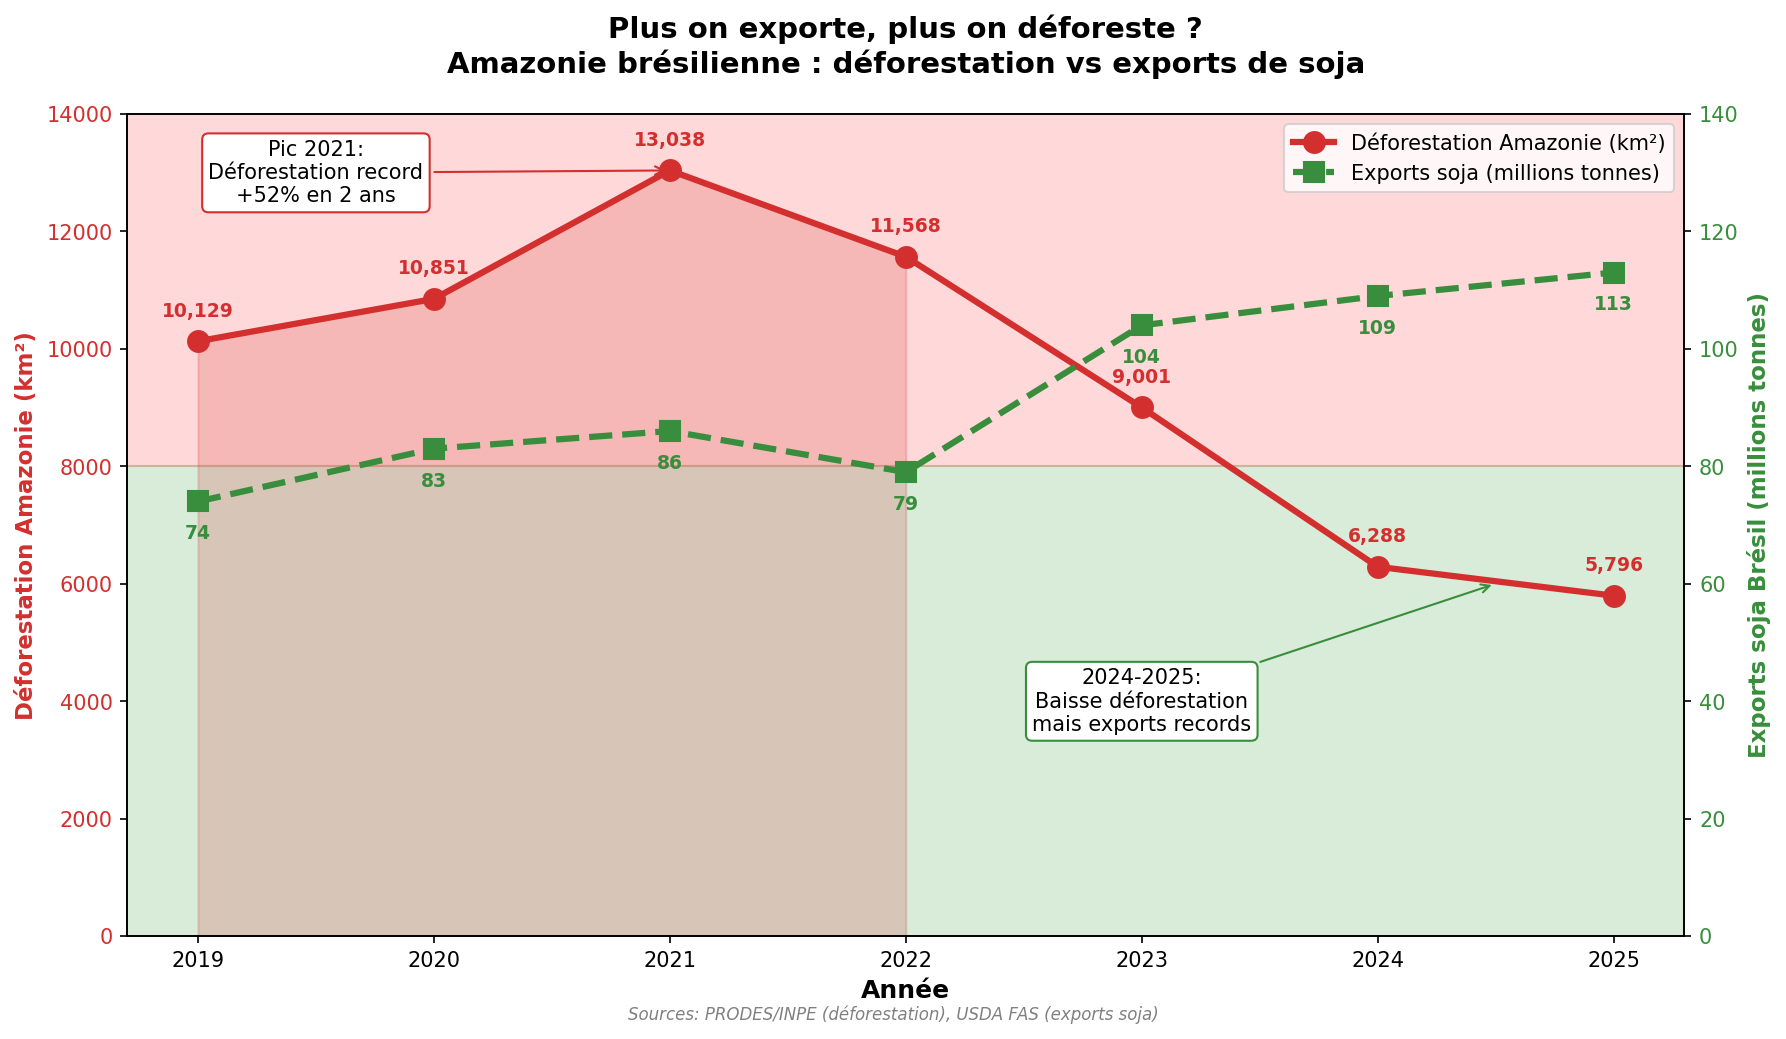
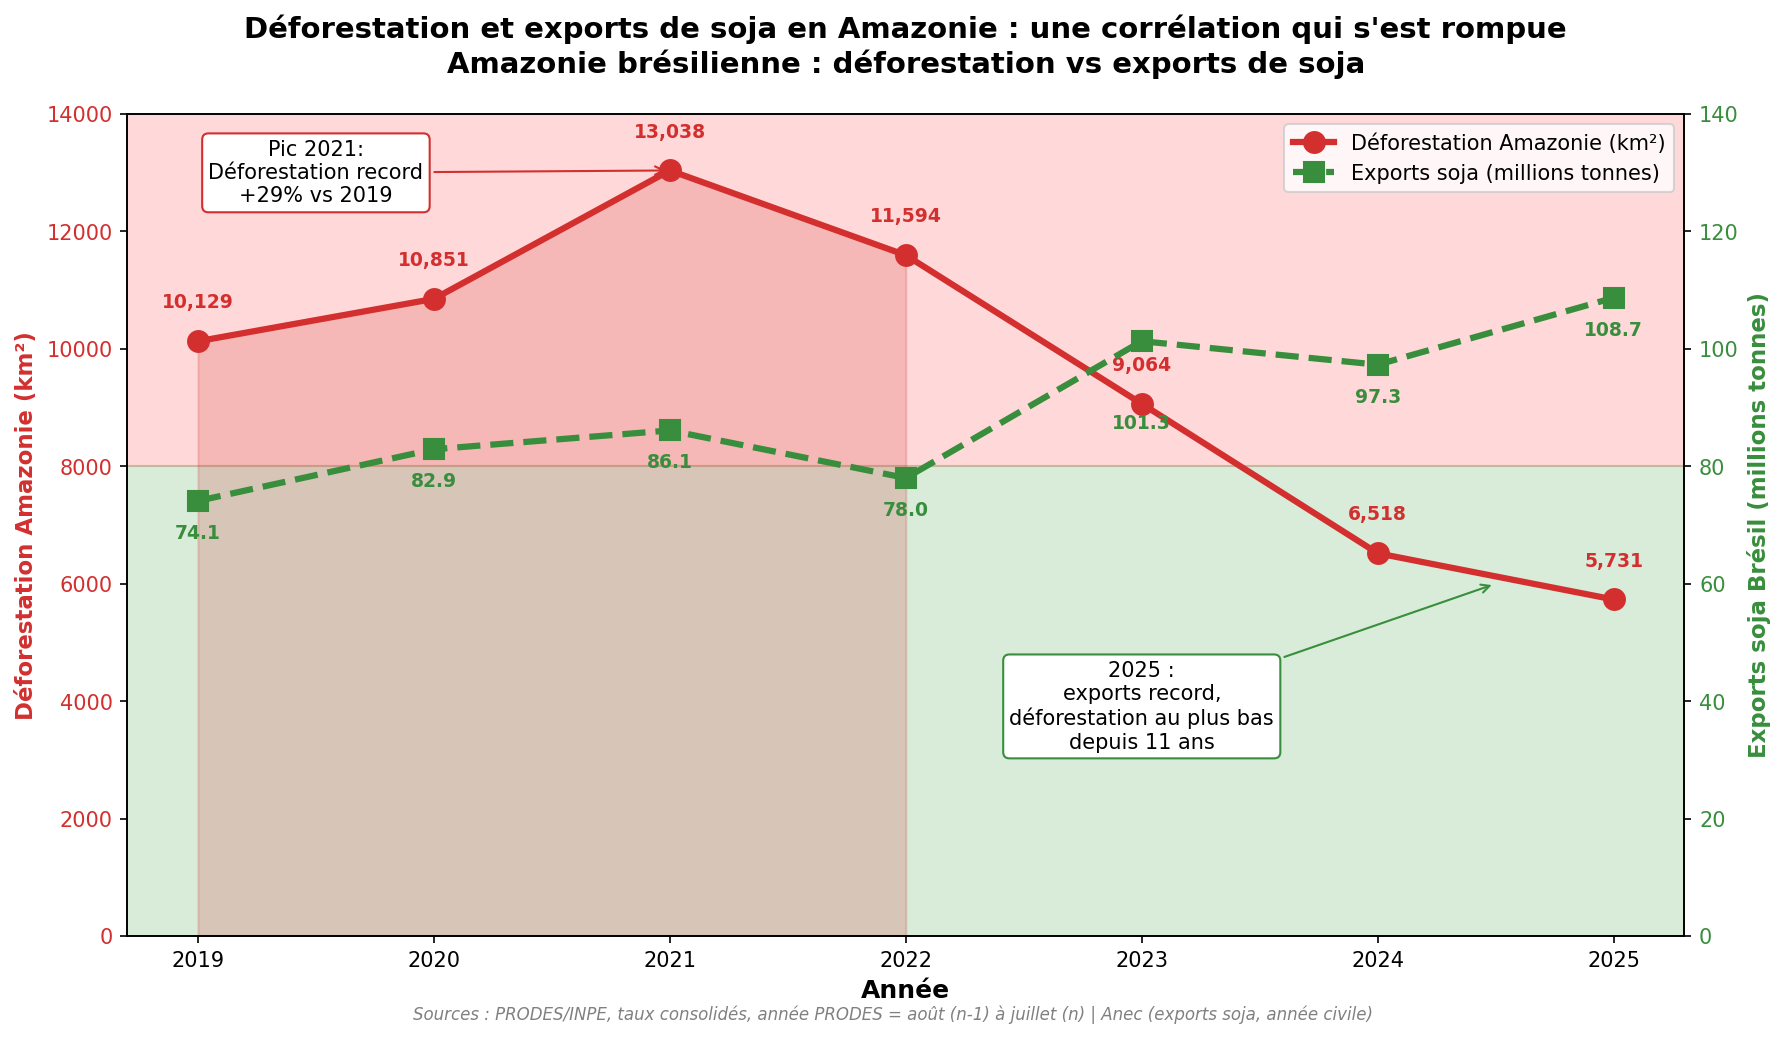
Corrige les donnees de la page Mercosur et ajoute la comparaison sucre
- Deforestation/exports soja : bascule sur les taux PRODES consolides et les
  exports Anec (annee civile), au lieu de chiffres preliminaires non sources ;
  titre et annotations reformules pour refleter la correlation qui se rompt
  apres 2022.
- Impact accord UE-Mercosur : recentre sur le boeuf (bug d'affichage et
  melange d'unites corriges), avec la nuance quota nominal (99 000 t) vs
  volume net reellement nouveau (~50 000 t, une partie du quota ne fait que
  basculer du commerce hors-quota existant).
- Scenario foret amazonienne : remplace la projection 2026-2050 a taux
  invente par une projection 2026-2030 basee sur la moyenne reelle 2023-2025,
  etiquetee comme scenario explicite.
- Empreinte deforestation boeuf : nouveau format en carres a l'echelle ;
  legende et encadre du site mis a jour (l'ancien chiffre "164 m2 = 1 terrain
  de tennis" n'etait plus source).
- Nouvelle section : production vs importations de sucre en UE27 (CEFS +
  USDA FAS), pour situer le quota sucre de l'accord.

Sources detaillees dans etudes/mercosur/data/SOURCES_DONNEES_MERCOSUR.csv.

diff --git a/mercosur.html b/mercosur.html
@@ -9,12 +9,12 @@
     <meta property="og:type" content="article">
     <meta property="og:site_name" content="Climat & Environnement">
     <meta property="og:title" content="Accord UE-Mercosur et Deforestation - Analyse">
-    <meta property="og:description" content="Analyse de l'impact de l'accord UE-Mercosur sur la deforestation amazonienne. 1 kg de boeuf bresilien = 164 m2 de foret detruite.">
+    <meta property="og:description" content="Analyse de l'impact de l'accord UE-Mercosur : deforestation, quotas boeuf et sucre, donnees sourcees et verifiees.">
     <meta property="og:url" content="https://gaby-ridaya.github.io/Climat/mercosur.html">
     <meta property="og:image" content="https://gaby-ridaya.github.io/Climat/images/mercosur_1_deforestation_vs_exports.png">
     <meta name="twitter:card" content="summary_large_image">
     <meta name="twitter:title" content="Accord UE-Mercosur et Deforestation - Analyse">
-    <meta name="twitter:description" content="Analyse de l'impact de l'accord UE-Mercosur sur la deforestation amazonienne. 1 kg de boeuf bresilien = 164 m2 de foret detruite.">
+    <meta name="twitter:description" content="Analyse de l'impact de l'accord UE-Mercosur : deforestation, quotas boeuf et sucre, donnees sourcees et verifiees.">
     <meta name="twitter:image" content="https://gaby-ridaya.github.io/Climat/images/mercosur_1_deforestation_vs_exports.png">
     <link rel="canonical" href="https://gaby-ridaya.github.io/Climat/mercosur.html">
     <link rel="stylesheet" href="style.css">
@@ -91,70 +91,102 @@
 
             <!-- Graphique 2 : Accord UE-Mercosur -->
             <section class="section">
-                <h2>Impact de l'accord UE-Mercosur</h2>
+                <h2>Impact de l'accord UE-Mercosur pour le bœuf</h2>
                 <p>
-                    L'accord prevoit de nouveaux quotas d'importation a tarif reduit pour plusieurs produits agricoles.
+                    L'accord cree un nouveau quota de 99 000 tonnes de bœuf a droit reduit. Mais une bonne
+                    partie de ce volume remplace du commerce qui existe deja hors-quota, a droits pleins :
+                    le commerce reellement nouveau est nettement plus faible que le chiffre du quota affiche.
                 </p>
 
                 <div class="graph-container">
                     <img src="images/mercosur_2_accord_ue_mercosur.png"
-                         alt="Graphique impact accord UE-Mercosur">
+                         alt="Graphique impact accord UE-Mercosur pour le boeuf">
                     <p class="graph-caption">
-                        Sources : Eurostat, Commission Europeenne
+                        Sources : Commission Europeenne (quota), CAP Reform / DG TAXUD (imports actuels et estimation du volume net)
                     </p>
                 </div>
 
                 <table class="data-table">
                     <thead>
                         <tr>
-                            <th>Produit</th>
-                            <th>Imports actuels</th>
-                            <th>Nouveau quota</th>
-                            <th>Augmentation</th>
+                            <th>Bœuf (t équiv. carcasse)</th>
+                            <th>Imports actuels (2024)</th>
+                            <th>Quota nominal accord</th>
+                            <th>Net réellement nouveau (estimé)</th>
                         </tr>
                     </thead>
                     <tbody>
                         <tr>
-                            <td>Boeuf</td>
-                            <td>147 110 tonnes</td>
-                            <td>+99 000 tonnes</td>
-                            <td>+67%</td>
+                            <td>Frais/réfrigéré</td>
+                            <td>111 058 t</td>
+                            <td>+54 450 t</td>
+                            <td>+9 400 t</td>
                         </tr>
                         <tr>
-                            <td>Ethanol</td>
-                            <td>-</td>
-                            <td>+650 000 hectolitres</td>
-                            <td>Nouveau</td>
+                            <td>Congelé</td>
+                            <td>58 000 t</td>
+                            <td>+44 550 t</td>
+                            <td>+40 550 t</td>
                         </tr>
                         <tr>
-                            <td>Sucre</td>
-                            <td>-</td>
-                            <td>+180 000 tonnes</td>
-                            <td>Nouveau</td>
+                            <td><strong>Total</strong></td>
+                            <td><strong>169 058 t</strong></td>
+                            <td><strong>+99 000 t</strong></td>
+                            <td><strong>+49 950 t</strong></td>
                         </tr>
                     </tbody>
                 </table>
             </section>
 
-            <!-- Graphique 3 : Scenarios futurs -->
+            <!-- Graphique : Sucre, production vs importations -->
             <section class="section">
-                <h2>Scenarios futurs (2026-2050)</h2>
+                <h2>Sucre : production et importations en Europe</h2>
                 <p>
-                    Projection de l'evolution de la foret amazonienne selon differents scenarios
-                    de consommation europeenne.
+                    L'accord UE-Mercosur ajoute un quota de 190 000 tonnes de sucre (180 000 t existantes
+                    reconduites + 10 000 t nouvelles pour le Paraguay). Pour situer l'ampleur de ce chiffre,
+                    voici la production europeenne de sucre de betterave comparee aux importations totales
+                    (toutes origines, pas seulement Mercosur).
                 </p>
 
                 <div class="graph-container">
-                    <img src="images/mercosur_3_foret_assiettes.png"
-                         alt="Graphique scenarios foret amazonienne">
+                    <img src="images/production_vs_imports_sucre_ue.png"
+                         alt="Graphique production vs importations de sucre en UE27">
                     <p class="graph-caption">
-                        Projections basees sur les tendances actuelles
+                        Sources : CEFS Statistics 2024/2025 (production) ; USDA FAS, "Sugar: World Markets and Trade" (importations)
                     </p>
                 </div>
 
-                <div class="success-box">
-                    <strong>Scenario positif :</strong> Une reduction de 50% des imports de viande
-                    et soja par l'UE permettrait de preserver 0.2 millions km2 de foret supplementaire d'ici 2050.
+                <div class="info-box">
+                    <strong>A retenir :</strong> les importations de sucre (toutes origines) representent entre
+                    8% et 18% de l'offre totale europeenne selon les annees (moyenne 13%) - l'UE est tres largement
+                    autosuffisante en sucre. Ce graphique ne detaille pas la part specifique
+                    du Mercosur/Bresil dans ces importations.
+                </div>
+            </section>
+
+            <!-- Graphique 3 : Projection deforestation -->
+            <section class="section">
+                <h2>Projection de la deforestation (2026-2030)</h2>
+                <p>
+                    Le taux annuel de deforestation en Amazonie legale a baisse chaque annee depuis
+                    le pic de 2021. Ce graphique projette un seul scenario : si la moyenne du taux
+                    observe sur 2023-2025 se maintient telle quelle jusqu'en 2030.
+                </p>
+
+                <div class="graph-container">
+                    <img src="images/mercosur_3_projection_deforestation_2030.png"
+                         alt="Graphique projection deforestation Amazonie legale 2026-2030">
+                    <p class="graph-caption">
+                        Donnees reelles 2019-2025 (PRODES/INPE, taux consolides) et projection 2026-2030
+                        (scenario, pas une prediction)
+                    </p>
+                </div>
+
+                <div class="info-box">
+                    <strong>Hypothese du scenario :</strong> taux moyen 2023-2025 (7 104 km²/an) maintenu
+                    constant jusqu'en 2030, soit environ 35 500 km² de foret supplementaire perdue sur la periode.
+                    Cette projection ne fait aucune hypothese sur l'effet de l'accord UE-Mercosur : on ne
+                    dispose pas de donnees permettant de chiffrer son impact sur ce taux.
                 </div>
             </section>
 
@@ -167,15 +199,16 @@
 
                 <div class="graph-container">
                     <img src="images/mercosur_4_empreinte_deforestation.png"
-                         alt="Graphique empreinte deforestation">
+                         alt="Graphique empreinte deforestation boeuf, production Amazonie">
                     <p class="graph-caption">
-                        Sources : WWF Deforestation Fronts, Pendrill et al. (2019)
+                        Source : Trase Insights (Stockholm Environment Institute), "Brazilian beef exports and deforestation" (14/10/2025)
                     </p>
                 </div>
 
                 <div class="warning-box">
-                    <strong>A retenir :</strong> 1 kg de boeuf bresilien = 164 m2 de foret detruite,
-                    soit l'equivalent d'un terrain de tennis.
+                    <strong>A retenir :</strong> l'intensite de deforestation du boeuf produit en Amazonie
+                    est passee de 8,93 a 13,00 m2 de foret detruite par kg entre 2020 et 2023, soit +46% en 3 ans.
+                    Donnee de PRODUCTION en Amazonie, pas un chiffre d'export vers l'UE specifiquement.
                 </div>
             </section>
 